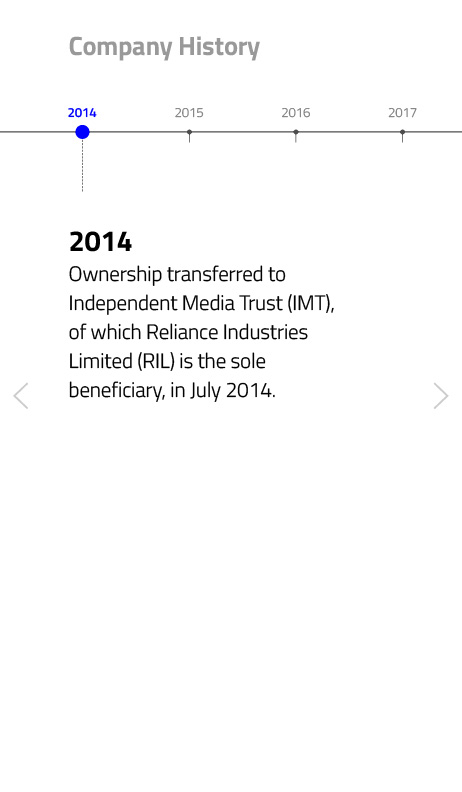
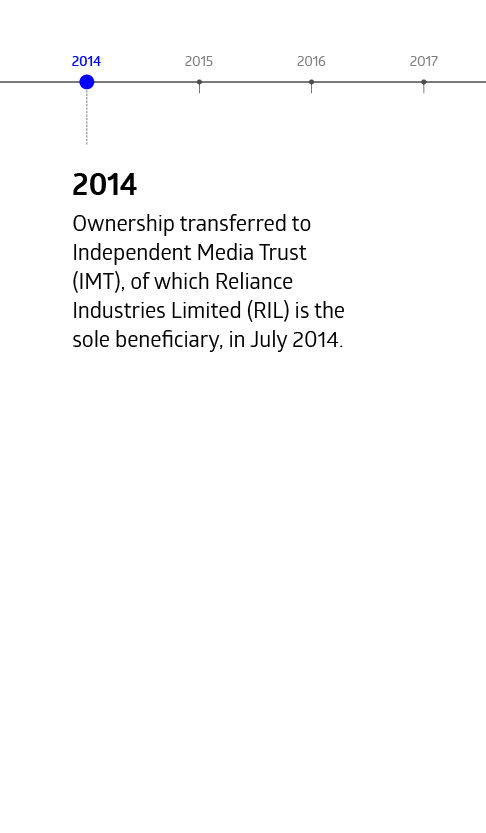
timeline images

diff --git a/app/style/app.css b/app/style/app.css
@@ -3272,7 +3272,7 @@ div.career-empl-cont div.col-md-4 p {
 .timelineSlider ul.slick-dots {
     text-align: center;
     position: relative;
-    bottom: 20px;
+    bottom: 50px;
     width: 80%;
     margin: 0 auto;
 }
@@ -3281,16 +3281,26 @@ div.career-empl-cont div.col-md-4 p {
 	color: transparent;
 	padding: 0;
 	width: 9%;
+	transition: all 1s ease-in-out;
 }
 .timelineSlider ul.slick-dots li>button{
 	height: 1px;
 	width: 100%;
 	border-radius: 0;
+	transition: all 2s linear;
 }
 .timelineSlider ul.slick-dots li.slick-active>button {
-    background: #dc0032;
+    background-image:
+    linear-gradient(
+      to right, 
+      rgba(220,0,50,0.8) 0%, 
+      #dc0032 10%, 
+      #dc0032 90%, 
+      rgba(220,0,50,0.8)
+    );
     height: 1px;
     width: 100%;
+    transition: all 2s ease;
 }
 .row.boardDirMainCont.ng-scope.slick-slide {
     float: left;
@@ -5687,25 +5697,25 @@ info-window img{
 	}
 	.timelineSlider .btnContSlixk {
 		position: absolute;
-		width: 90%;
+		width: 105%;
 		z-index: 100;
-		transform: translateX(5%) translateY(-115px);
+		transform: translateX(8%) translateY(-115px);
 		top: 50%;
-		left: 0%;
+		left: -11%;
 	}
 	.timeSlierPrev img{
-		filter: grayscale(100%) invert(100%);
-		transform: rotate(90deg);
-		max-height: 24px;
+		
+		transform: rotate(0deg);
+		max-height: 40px;
 	}
 	.timeSlierNext{
 		position: absolute;
 		right: 0;
 	}
 	.timeSlierNext img{
-		filter: grayscale(100%) invert(100%);
-		transform: rotate(270deg);
-		max-height: 24px;
+		
+		transform: rotate(180deg);
+		max-height: 40px;
 	}
 	.jobDescriptionMainCont.container{
 		width: auto;

diff --git a/app/view/corporate-main.html b/app/view/corporate-main.html
@@ -372,8 +372,8 @@
 				</div>
 				<div class="mobShow timelineSlider">
 					<div class="btnContSlixk">
-						<button class="timeSlierPrev"><img src="/images/aerrow_wn.png" alt=""></button>
-						<button class="timeSlierNext"><img src="/images/aerrow_wn.png" alt=""></button>
+						<button class="timeSlierPrev"><img src="/images/timeline/Arrow.png" alt=""></button>
+						<button class="timeSlierNext"><img src="/images/timeline/Arrow.png" alt=""></button>
 					</div>
 					<slick class="timelineSlider historyCompContainer" settings="slickConfig" dots="true" prev-arrow=".timeSlierPrev" next-arrow=".timeSlierNext" autoplay="true">
 						<div class="eachTimelineSlide" ng-repeat="i in [1,2,3,4,5,6,7,8,9,10,11]">
